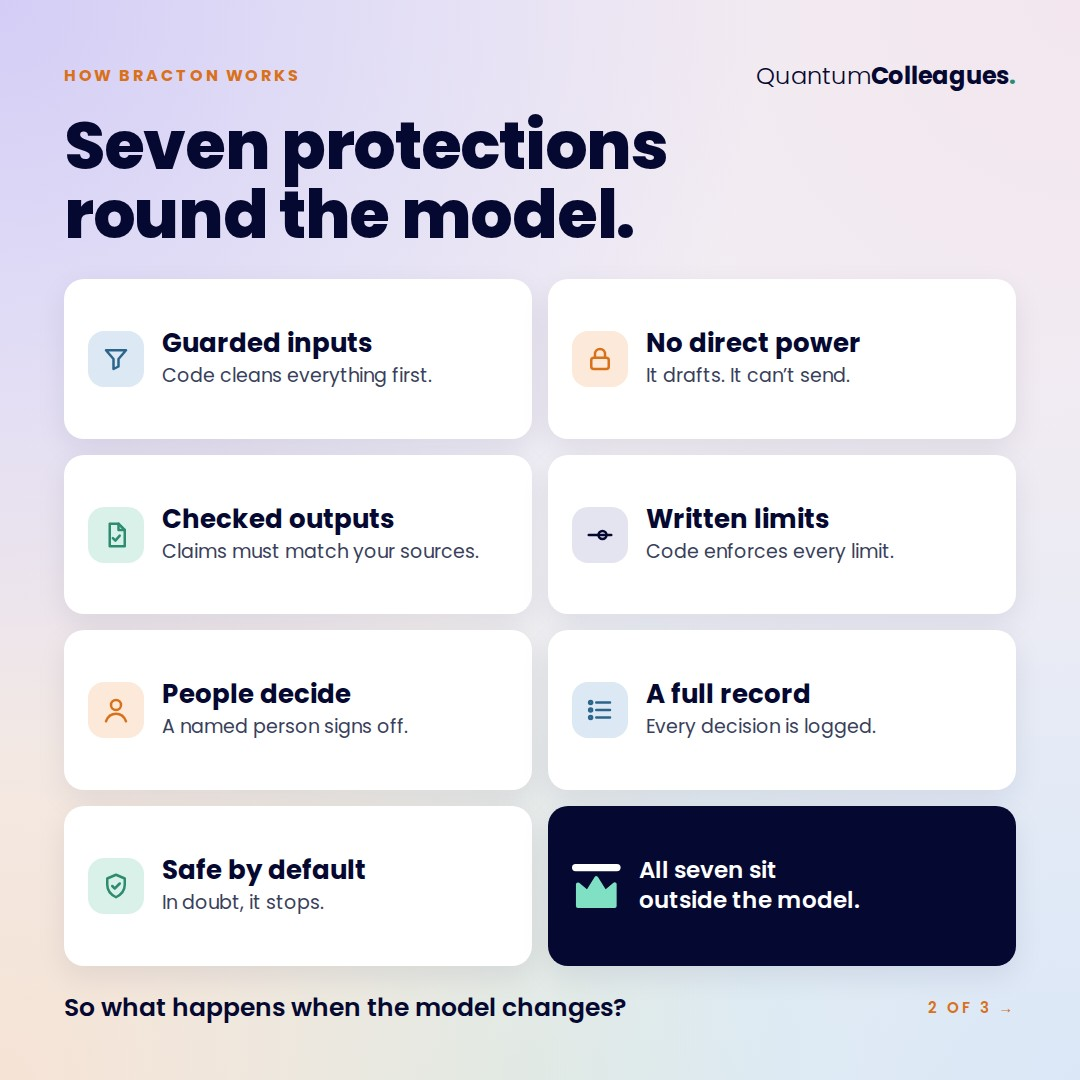
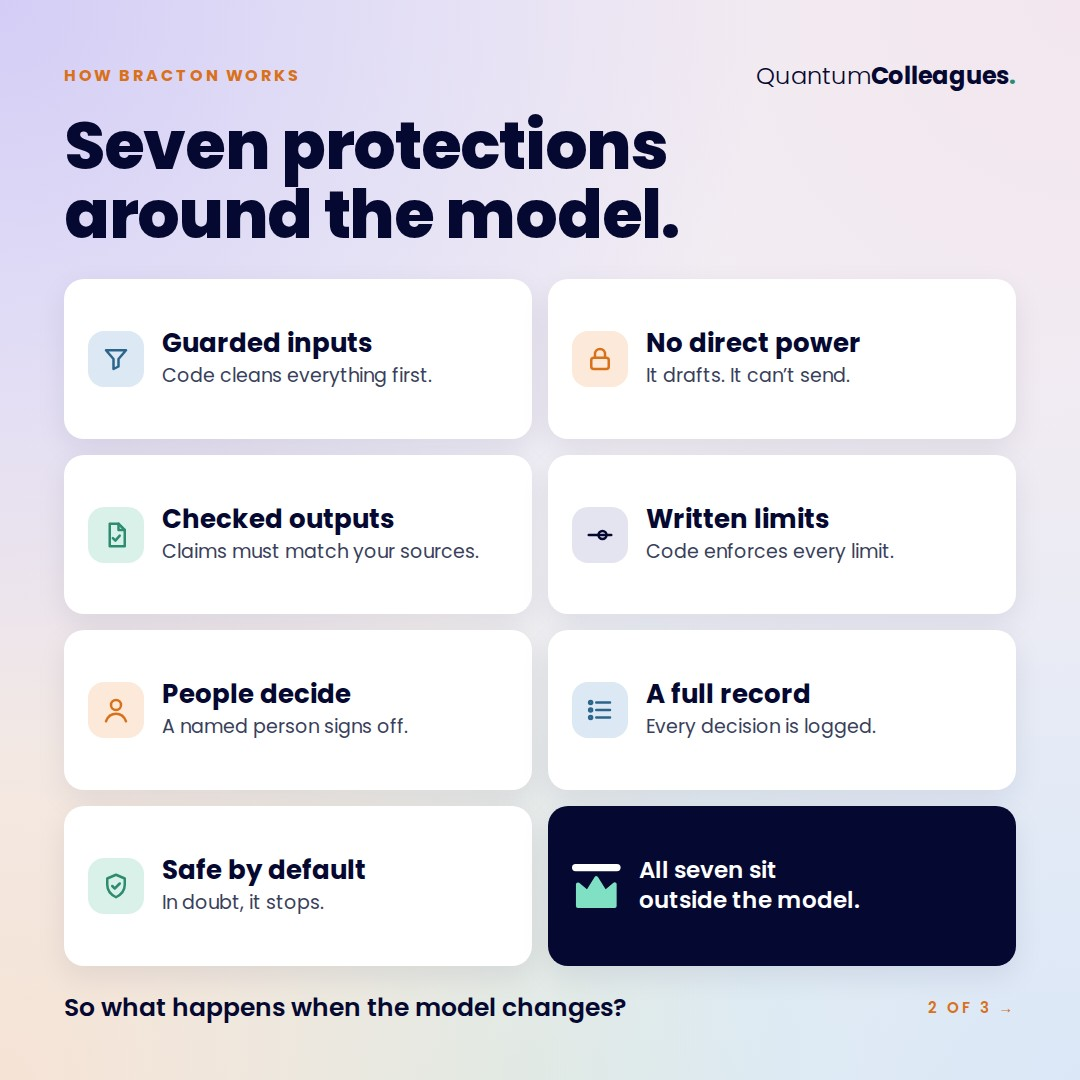
[C] Bracton copy: "seven protections around the model", not "round", on the site and carousel page 2
Jonathan ruled at 10:43 UK on 20 Nov 2026: "It should be seven protections
around the model". The other "round" uses in the same copy read "around"
too. verify_bracton_around.py GREEN 20/20 (RED 4/20 before), 9 of 9 planted
faults caught; regress 40/52 against 36/52. Not live.

Claude-Session: https://claude.ai/code/session_01XdWH4wgcDAKPyqL2U9NkLZ

Changed region(s): [[0.0611, 0.1528, 0.6111, 0.2444]]

diff --git a/thoughts/change-the-model-keep-the-rules.html b/thoughts/change-the-model-keep-the-rules.html
@@ -4,7 +4,7 @@
     <meta charset="UTF-8">
     <meta name="viewport" content="width=device-width, initial-scale=1.0">
     <title>Change the model. Keep the rules. | QuantumColleagues™</title>
-    <meta name="description" content="Bracton is our deterministic safety layer around AI models. It puts seven protections round the model, and they stay the same whichever model does the drafting.">
+    <meta name="description" content="Bracton is our deterministic safety layer around AI models. It puts seven protections around the model, and they stay the same whichever model does the drafting.">
     <link rel="canonical" href="https://quantumcolleagues.org/thoughts/change-the-model-keep-the-rules.html">
     <link rel="preconnect" href="https://fonts.googleapis.com">
     <link rel="preconnect" href="https://fonts.gstatic.com" crossorigin>
@@ -102,18 +102,18 @@
 <meta property="og:site_name" content="QuantumColleagues">
 <meta property="og:url" content="https://quantumcolleagues.org/thoughts/change-the-model-keep-the-rules.html">
 <meta property="og:title" content="Change the model. Keep the rules. &middot; QuantumColleagues&trade;">
-<meta property="og:description" content="Bracton is our deterministic safety layer around AI models. It puts seven protections round the model, and they stay the same whichever model does the drafting.">
+<meta property="og:description" content="Bracton is our deterministic safety layer around AI models. It puts seven protections around the model, and they stay the same whichever model does the drafting.">
 <meta property="og:image" content="https://quantumcolleagues.org/thoughts/change-the-model-keep-the-rules-social.jpg">
 <meta name="twitter:card" content="summary_large_image">
 <meta name="twitter:title" content="Change the model. Keep the rules. &middot; QuantumColleagues&trade;">
-<meta name="twitter:description" content="Bracton is our deterministic safety layer around AI models. It puts seven protections round the model, and they stay the same whichever model does the drafting.">
+<meta name="twitter:description" content="Bracton is our deterministic safety layer around AI models. It puts seven protections around the model, and they stay the same whichever model does the drafting.">
 <link rel="icon" href="/favicon.ico" sizes="any">
 <link rel="apple-touch-icon" href="/apple-touch-icon.png">
 <style id="talk-cta-css">.talk-cta{max-width:66ch;margin:1.6rem 0 .6rem;padding:1rem 1.2rem;border-top:3px solid #2D8C6F;background:#F3F8F6;font-size:1.02rem;line-height:1.6;color:#2c2c33}.talk-cta a{color:#1F6B53;font-weight:600;text-decoration:none}.talk-cta a:hover,.talk-cta a:focus{text-decoration:underline}</style>
 <link rel="alternate" type="application/rss+xml" title="Thoughts from QuantumColleagues" href="/thoughts/feed.xml">
 <style id="pages-css">.pages{display:grid;grid-template-columns:1fr 1fr;gap:1rem;margin:1.6rem 0 .6rem}.pages img{width:100%;border:1px solid #e6e6e6;border-radius:4px}.pdf-link{display:inline-block;margin:.4rem 0 1.4rem;font-size:.82rem;font-weight:600;letter-spacing:.06em;text-transform:uppercase;color:#1F6B53;text-decoration:none;border-bottom:2px solid #2D8C6F;padding-bottom:.15rem}@media(max-width:600px){.pages{grid-template-columns:1fr}}</style>
 <style id="protections-css">.art-body ul.protections{margin:0 0 1.1rem 1.25rem;padding:0;max-width:64ch}.art-body ul.protections li{font-size:1.02rem;color:#2c2c33;line-height:1.6;margin:0 0 .55rem}.art-body ul.protections strong{color:#050830;font-weight:600}</style>
-<script type="application/ld+json" id="thought-ld">{"@context": "https://schema.org", "@type": "Article", "headline": "Change the model. Keep the rules.", "description": "Bracton is our deterministic safety layer around AI models. It puts seven protections round the model, and they stay the same whichever model does the drafting.", "datePublished": "2026-11-18", "url": "https://quantumcolleagues.org/thoughts/change-the-model-keep-the-rules.html", "mainEntityOfPage": {"@type": "WebPage", "@id": "https://quantumcolleagues.org/thoughts/change-the-model-keep-the-rules.html"}, "image": "https://quantumcolleagues.org/thoughts/change-the-model-keep-the-rules-social.jpg", "inLanguage": "en-GB", "author": {"@type": "Person", "name": "Jonathan Clark"}, "publisher": {"@type": "Organization", "name": "QuantumColleagues", "url": "https://quantumcolleagues.org", "logo": {"@type": "ImageObject", "url": "https://quantumcolleagues.org/qc_logo_navy.png"}}}</script>
+<script type="application/ld+json" id="thought-ld">{"@context": "https://schema.org", "@type": "Article", "headline": "Change the model. Keep the rules.", "description": "Bracton is our deterministic safety layer around AI models. It puts seven protections around the model, and they stay the same whichever model does the drafting.", "datePublished": "2026-11-18", "url": "https://quantumcolleagues.org/thoughts/change-the-model-keep-the-rules.html", "mainEntityOfPage": {"@type": "WebPage", "@id": "https://quantumcolleagues.org/thoughts/change-the-model-keep-the-rules.html"}, "image": "https://quantumcolleagues.org/thoughts/change-the-model-keep-the-rules-social.jpg", "inLanguage": "en-GB", "author": {"@type": "Person", "name": "Jonathan Clark"}, "publisher": {"@type": "Organization", "name": "QuantumColleagues", "url": "https://quantumcolleagues.org", "logo": {"@type": "ImageObject", "url": "https://quantumcolleagues.org/qc_logo_navy.png"}}}</script>
 </head>
 <body>
     <header>
@@ -133,7 +133,7 @@
         <div class="art-body">
             <p>A better AI model arrives every few months. That&rsquo;s good news, but it raises an awkward question for a regulated organisation. If your safeguards live inside the model, what happens to them when the model changes?</p>
             <p>Ours don&rsquo;t live there. Admin Core runs inside Bracton, our <a class="in" href="/thoughts/rules-it-cannot-bend.html">deterministic safety layer</a> around AI models. Bracton is ordinary code, not another model, and it meets the test we set for every safeguard: it holds without the AI&rsquo;s cooperation. A rule that a model merely agrees to follow is an aspiration, not a control.</p>
-            <p>Bracton puts seven protections round the model.</p>
+            <p>Bracton puts seven protections around the model.</p>
             <ul class="protections">
                 <li><strong>Guarded inputs.</strong> Nothing reaches the model until our code has cleaned it, checked who sent it and decided what kind of work it is.</li>
                 <li><strong>No direct power.</strong> The model drafts and proposes. It holds no send button and has no say over who hears from it, and live actions stay switched off unless the system is cleared to act.</li>
@@ -148,12 +148,12 @@
             <p>Because every protection sits outside the model, any model can do the drafting and the protections stay the same. We can move routine work to a smaller, cheaper model, or bring in a stronger one where judgement matters, and the checks, the approvals and the audit trail stay as they were. A new model still passes through Gated Autonomy before it goes live, but nobody has to rebuild your safeguards each time.</p>
             <p>On 18 November the Commons Business, Innovation, Science and Trade Committee published <a class="in" href="https://publications.parliament.uk/pa/cm5902/cmselect/cmbeis/689/report.html">Guardrails for growth</a>, its report on AI safety and security. Its argument is one we share. AI will only spread through the economy if people trust it. Bracton complements the report from the other end, where AI meets your inbox, your records and the people you serve.</p>
             <p>Your safeguards shouldn&rsquo;t belong to whoever supplies the model. Models will keep changing, and your rules shouldn&rsquo;t have to.</p>
-            <p>We license Bracton on its own, with support to fit it round your AI. <a class="in" href="/bracton.html">Read about a Bracton licence</a>.</p>
+            <p>We license Bracton on its own, with support to fit it around your AI. <a class="in" href="/bracton.html">Read about a Bracton licence</a>.</p>
             <p><a class="in" href="mailto:information@quantumcolleagues.org">Get in touch to find out more</a>.</p>
         </div>
         <p class="talk-cta">If you’d like to talk to us about this, then please contact us <a href="/contact.html">here</a> or email us directly at <a href="mailto:information@quantumcolleagues.org">information@quantumcolleagues.org</a>.</p>
         <div class="pages">
-            <img src="/thoughts/change-the-model-keep-the-rules-page2.jpg" alt="Page 2: How Bracton works. Seven protections round the model. Guarded inputs: code cleans everything first. No direct power: it drafts, and it can&rsquo;t send. Checked outputs: claims must match your sources. Written limits: code enforces every limit. People decide: a named person signs off. A full record: every decision is logged. Safe by default: in doubt, it stops. All seven sit outside the model.">
+            <img src="/thoughts/change-the-model-keep-the-rules-page2.jpg" alt="Page 2: How Bracton works. Seven protections around the model. Guarded inputs: code cleans everything first. No direct power: it drafts, and it can&rsquo;t send. Checked outputs: claims must match your sources. Written limits: code enforces every limit. People decide: a named person signs off. A full record: every decision is logged. Safe by default: in doubt, it stops. All seven sit outside the model.">
             <img src="/thoughts/change-the-model-keep-the-rules-page3.jpg" alt="Page 3: Why it lasts. Any model fits in the middle, and the protections stay the same, whatever the model. The picture shows Bracton, ordinary code outside the model, with the AI model in the middle inside no direct power, guarded inputs coming in, checked outputs going out, written limits and people decide above, and a full record and safe by default below. Which protection matters most to you? Talk to us at quantumcolleagues.org.">
         </div>
         <a class="pdf-link" href="/thoughts/QC_Bracton_LinkedIn_3pp.pdf" target="_blank" rel="noopener">Download the three page PDF &rarr;</a>

diff --git a/bracton.html b/bracton.html
@@ -164,12 +164,12 @@
         <div class="feature-row">
             <div>
                 <h2 class="section-title">WHAT IT DOES</h2>
-                <p class="lede">Bracton puts seven protections round the model: guarded inputs, no direct power, checked outputs, written limits, people decide, a full record and safe by default. Each one is ordinary code outside the model, so none of them relies on the model behaving.</p>
+                <p class="lede">Bracton puts seven protections around the model: guarded inputs, no direct power, checked outputs, written limits, people decide, a full record and safe by default. Each one is ordinary code outside the model, so none of them relies on the model behaving.</p>
                 <h2 class="section-title">WHAT YOU GET</h2>
-                <p class="lede">You get a licence to run Bracton round your own AI, on infrastructure you control. We map the work with you, write down what the AI may do on its own and what waits for a person, and fit Bracton round it. We test it on your own work before anything goes live, and we stay on hand when you change model.</p>
+                <p class="lede">You get a licence to run Bracton around your own AI, on infrastructure you control. We map the work with you, write down what the AI may do on its own and what waits for a person, and fit Bracton around it. We test it on your own work before anything goes live, and we stay on hand when you change model.</p>
             </div>
             <div>
-                <img class="social-img" src="bracton-tile.jpg" alt="Bracton by QuantumColleagues: keep your AI’s rules when the model changes. Seven protections round the model, from guarded inputs to safe by default.">
+                <img class="social-img" src="bracton-tile.jpg" alt="Bracton by QuantumColleagues: keep your AI’s rules when the model changes. Seven protections around the model, from guarded inputs to safe by default.">
             </div>
         </div>
 

diff --git a/products.html b/products.html
@@ -487,7 +487,7 @@ Off-the-shelf AI colleagues, sold direct and through accredited channel partners
 
 <div class="stages stages-single">
 <div class="stage-box licence">
-<img class="product-tile" src="bracton-tile.jpg" alt="Bracton by QuantumColleagues: keep your AI’s rules when the model changes. Seven protections round the model, from guarded inputs to safe by default.">
+<img class="product-tile" src="bracton-tile.jpg" alt="Bracton by QuantumColleagues: keep your AI’s rules when the model changes. Seven protections around the model, from guarded inputs to safe by default.">
 <span class="chip chip-now">Available now</span>
 <h3><svg viewBox="0 0 24 24" class="ico" aria-hidden="true" focusable="false"><path d="M4.6 5.4 L19.4 5.6"></path><path class="accent" d="M5.4 19.1 L5.5 11.4 L9.1 14.6 L12 8.9 L14.9 14.5 L18.6 11.5 L18.5 19 L5.3 19.2"></path></svg>BRACTON</h3>
 <p class="stage-sub">Licence and implementation support</p>

diff --git a/thoughts/guardrails-for-growth-where-ai-works.html b/thoughts/guardrails-for-growth-where-ai-works.html
@@ -10,7 +10,7 @@
 <meta property="og:type" content="article">
 <meta property="og:url" content="https://quantumcolleagues.org/thoughts/change-the-model-keep-the-rules.html">
 <meta property="og:title" content="Change the model. Keep the rules. &middot; QuantumColleagues&trade;">
-<meta property="og:description" content="Bracton is our deterministic safety layer around AI models. It puts seven protections round the model, and they stay the same whichever model does the drafting.">
+<meta property="og:description" content="Bracton is our deterministic safety layer around AI models. It puts seven protections around the model, and they stay the same whichever model does the drafting.">
 <meta property="og:image" content="https://quantumcolleagues.org/thoughts/change-the-model-keep-the-rules-social.jpg">
 </head>
 <body>

diff --git a/thoughts/index.html b/thoughts/index.html
@@ -137,7 +137,7 @@
                 <div class="t-body">
                 <div class="t-meta"><span>AI Thoughts for SMEs</span><span>18 November 2026</span></div>
                 <h3>Change the model. Keep the rules.</h3>
-                <p>Bracton is our deterministic safety layer around AI models. It puts seven protections round the model, and they stay the same whichever model does the drafting.</p>
+                <p>Bracton is our deterministic safety layer around AI models. It puts seven protections around the model, and they stay the same whichever model does the drafting.</p>
                 <span class="go">Read the thought &rarr;</span>
                 </div>
             </a>

diff --git a/CHANGELOG.md b/CHANGELOG.md
@@ -1,3 +1,10 @@
+## 2026-11-20 [C] Bracton copy says "seven protections around the model", not "round", on the site and on carousel page 2 (on dev, not live)
+- Jonathan, 20 Nov 10:43 UK, on seeing the Instagram video of the carousel: "It should be seven protections around the model". The same copy also said "run Bracton round your own AI", "fit Bracton round it" and "fit it round your AI", and those now read "around" too, so the copy is consistent.
+- What changed: the Bracton page (what it does, what you get, and the tile's alt text), the Bracton card's alt text on Products and Services, the Bracton Thought (its third paragraph, its licence line, its card line in the head and the alt text of carousel page 2), carousel page 2 and the three page PDF on the Thought, the Thought's card on the Thoughts list, the feed, llms.txt and the forward of the retired Guardrails for growth Thought. Carousel pages 1 and 3 render byte for byte as before. The home page is untouched.
+- Builders: make_thought_bracton_carousel.py for page 2 (the copy in the cloud session and the one on the Spark match, sha256 d9a038c3854aa328), build_thought_bracton_v2.py, retire_thought_gfg.py, build_bracton_page.py (which now remakes the LICENSING card when its words change) and build_thought_hub.py.
+- Verifier first: verify_bracton_around.py sweeps every page, feed and text file and all three pages of the PDF for "round" where it means "around", checks "seven protections around the model" where "round" stood, and checks the scope against 1fa9e1a. It was RED 4/20 on the untouched tree and is GREEN 20/20 here, and plant_faults_bracton_around.py caught 9 of 9. Upkeep: verify_bracton_page.py, verify_thought_bracton.py and verify_thought_bracton_pages.py expect the new words (the last now also reads page 2 of the PDF), verify_thought_gfg.py maps the new card line back when it compares the list with b48f125, and the older scope checks set the change aside by import. Their planters caught 29 of 29, 11 of 11, 10 of 10 and 13 of 13.
+- regress_all.py: 40/52 here against 36/52 on the untouched tree (1fa9e1a). Five verifiers go from fail to pass. verify_advisory_consultancy.py goes from pass to fail on its scope check against origin/main alone, as any work on dev does, and the compare shows no verifier failing more checks than before.
+
 ## 2026-11-20 [C] The press release channel, and the press verifiers accept a new release
 - Jonathan, 20 Nov 08:47 UK: "let's just build a streamlined automated channel that sends out press releases far and wide on my command". The channel lives on the Spark in /opt/qcai/scripts/press (release.py preview, approve and go). On his command it builds an approved release on dev with publish_release.py (the card straight after the top divider of press.html, then build_press_hub.py and build_thought_hub.py, then verify_press_hub.py GREEN), promotes it by fast forward, checks the live site, pings, and leaves desk drafts in his Drafts through Holly. It refuses whenever other work waits on dev. verify_release_channel.py GREEN 38/38 and redproof_release_channel.py GREEN 7/7. No page of the site changes with this entry.
 - Verifier upkeep. verify_press_hub.py gains strip_added_cards() and release_changes(). Its HARM check no longer takes away the divider above a new card unless the card brought one, because the house shape (the 6 Nov release) adds a card straight after the top divider. verify_press_airr.py, verify_bracton_page.py, verify_thought_bracton_pages.py and verify_thought_gfg.py set aside, through those helpers, only what a release added since their base explains. redproof_release_setaside.py GREEN 21/21: all five pass a real new release, and each still fails on an edited old release, a backdated card, a stray divider, a stray edit outside the cards and a stray file in press-releases/. The old files are in /opt/qcai/scripts/backups (2026-11-20_090919 and 2026-11-20_091504).
